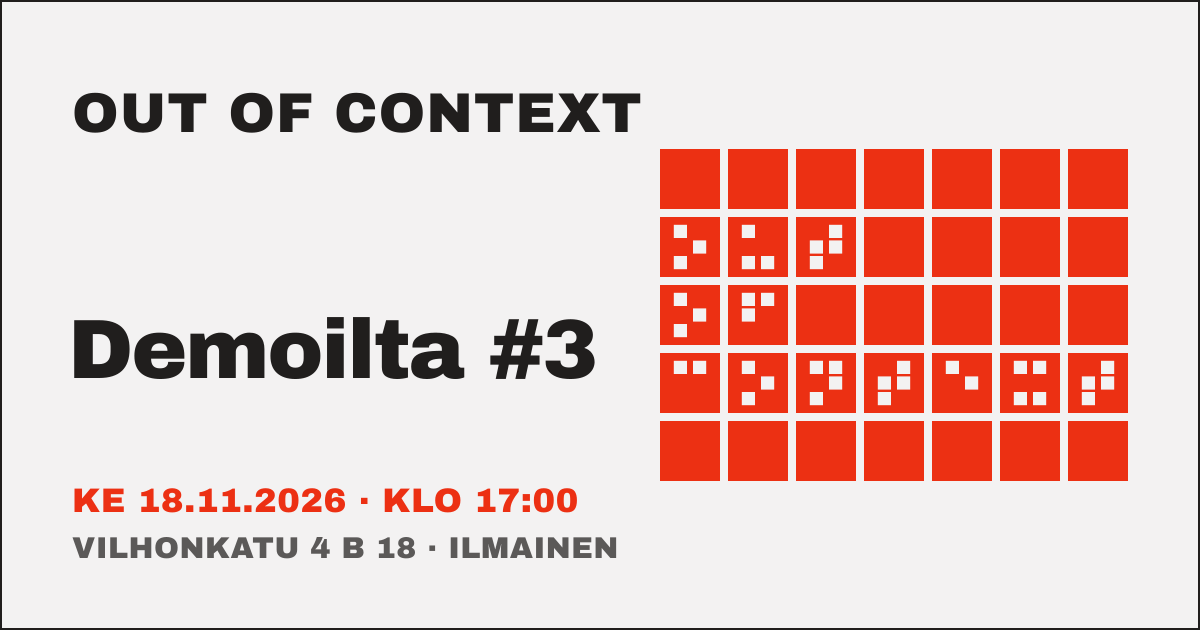
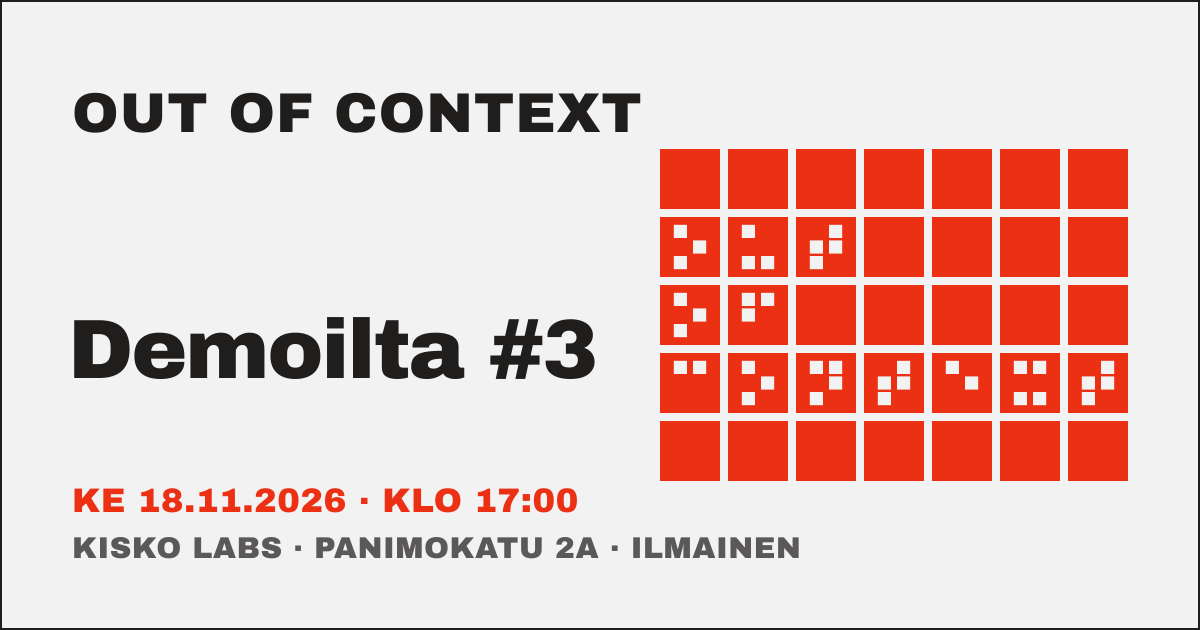
feat: show the Kisko Labs venue on the demo night #3 share card and Lu.ma cover

Changed region(s): [[0.0617, 0.8444, 0.6783, 0.9048]]

diff --git a/templates/index.html b/templates/index.html
@@ -14,14 +14,14 @@
 <meta property="og:url" content="{{ config.base_url }}/">
 <meta property="og:title" content="Out of Context demoilta #3 × Vibe Coding Finland">
 <meta property="og:description" content="{{ config.description }}">
-<meta property="og:image" content="{{ config.base_url }}/og-image.png?v=3">
+<meta property="og:image" content="{{ config.base_url }}/og-image.png?v=4">
 <meta property="og:image:width" content="1200">
 <meta property="og:image:height" content="630">
 <meta property="og:image:alt" content="Out of Context — ilta sinulle joka luot AI:lla. Helsinki, ke 18.11.2026.">
 <meta name="twitter:card" content="summary_large_image">
 <meta name="twitter:title" content="Out of Context demoilta #3 × Vibe Coding Finland">
 <meta name="twitter:description" content="{{ config.description }}">
-<meta name="twitter:image" content="{{ config.base_url }}/og-image.png?v=3">
+<meta name="twitter:image" content="{{ config.base_url }}/og-image.png?v=4">
 
 <link rel="icon" type="image/svg+xml" href="/favicon.svg">
 <link rel="apple-touch-icon" href="/apple-touch-icon.png">

diff --git a/tools/og-image/luma_cover.py b/tools/og-image/luma_cover.py
@@ -19,10 +19,12 @@ import sys
 NUMBER = "3"
 DATE = "18.11.2026"
 TIME = "17:00"
+VENUE = "KISKO LABS &#183; PANIMOKATU 2A"
 SUFFIX = ""
 if len(sys.argv) == 3:
     NUMBER, DATE = sys.argv[1], sys.argv[2]
     SUFFIX = f"-{NUMBER}"
+    VENUE = "VILHONKATU 4 B 18"
 elif len(sys.argv) != 1:
     sys.exit("usage: luma_cover.py [NUMBER DATE]")
 
@@ -45,7 +47,7 @@ p.append(f'<rect x="1" y="1" width="{W-2}" height="{H-2}" fill="none" stroke="{I
 p.append(f'<text x="{LX}" y="112" font-family="{FF}" font-size="42" letter-spacing="2" fill="{INK}">OUT OF CONTEXT</text>')
 p.append(f'<text x="{LX-4}" y="248" font-family="{FF}" font-size="104" letter-spacing="-2" fill="{INK}">Demoilta #{NUMBER}</text>')
 p.append(f'<text x="{LX}" y="324" font-family="{FF}" font-size="32" letter-spacing="0.5" fill="{RED}">KE {DATE} &#183; KLO {TIME}</text>')
-p.append(f'<text x="{LX}" y="366" font-family="{FF}" font-size="28" letter-spacing="0.5" fill="{INK}" opacity="0.72">VILHONKATU 4 B 18 &#183; ILMAINEN</text>')
+p.append(f'<text x="{LX}" y="366" font-family="{FF}" font-size="28" letter-spacing="0.5" fill="{INK}" opacity="0.72">{VENUE} &#183; ILMAINEN</text>')
 
 # braille as big red favicon tiles, full content width
 cols, rows = 7, 5

diff --git a/tools/og-image/generate.py b/tools/og-image/generate.py
@@ -44,7 +44,7 @@ LX = 72
 parts.append(f'<text x="{LX}" y="132" font-family="{FF}" font-size="56" letter-spacing="1" fill="{INK}">OUT OF CONTEXT</text>')
 parts.append(f'<text x="{LX-4}" y="378" font-family="{FF}" font-size="84" letter-spacing="-2" fill="{INK}">Demoilta #3</text>')
 parts.append(f'<text x="{LX}" y="512" font-family="{FF}" font-size="34" letter-spacing="0.5" fill="{RED}">KE 18.11.2026 &#183; KLO 17:00</text>')
-parts.append(f'<text x="{LX}" y="558" font-family="{FF}" font-size="30" letter-spacing="0.5" fill="{INK}" opacity="0.72">VILHONKATU 4 B 18 &#183; ILMAINEN</text>')
+parts.append(f'<text x="{LX}" y="558" font-family="{FF}" font-size="30" letter-spacing="0.5" fill="{INK}" opacity="0.72">KISKO LABS &#183; PANIMOKATU 2A &#183; ILMAINEN</text>')
 
 # ---- right: braille "OUT OF CONTEXT" as big favicon tiles (no orange panel) ----
 DOTS = {1: (0, 0), 2: (0, 1), 3: (0, 2), 4: (1, 0), 5: (1, 1), 6: (1, 2)}

diff --git a/AGENTS.md b/AGENTS.md
@@ -73,8 +73,9 @@ Wednesday 18 November 2026, a joint evening with Vibe Coding Finland: doors at
 about 75 seats, registration on Meetup at
 `https://www.meetup.com/vibe-coding-finland/events/317367448/`. The earlier
 Lu.ma page `https://luma.com/qgu2394i` is no longer linked; its registrants
-were asked to register again on Meetup. The share card shows only the date and
-time, so it did not change with the venue. The "Seuraavat" cell
+were asked to register again on Meetup. The share card and the Lu.ma cover were
+re-rendered with the Kisko Labs venue line; `luma_cover.py 4 16.12.2026` still
+renders #4 at Vilhonkatu. The "Seuraavat" cell
 already names **Demoilta #4** on Wednesday 16 December 2026, whose Lu.ma page
 is `https://luma.com/2gh6fn1p`; when #4 becomes the current event, that cell
 moves on too. The page is indexable,
